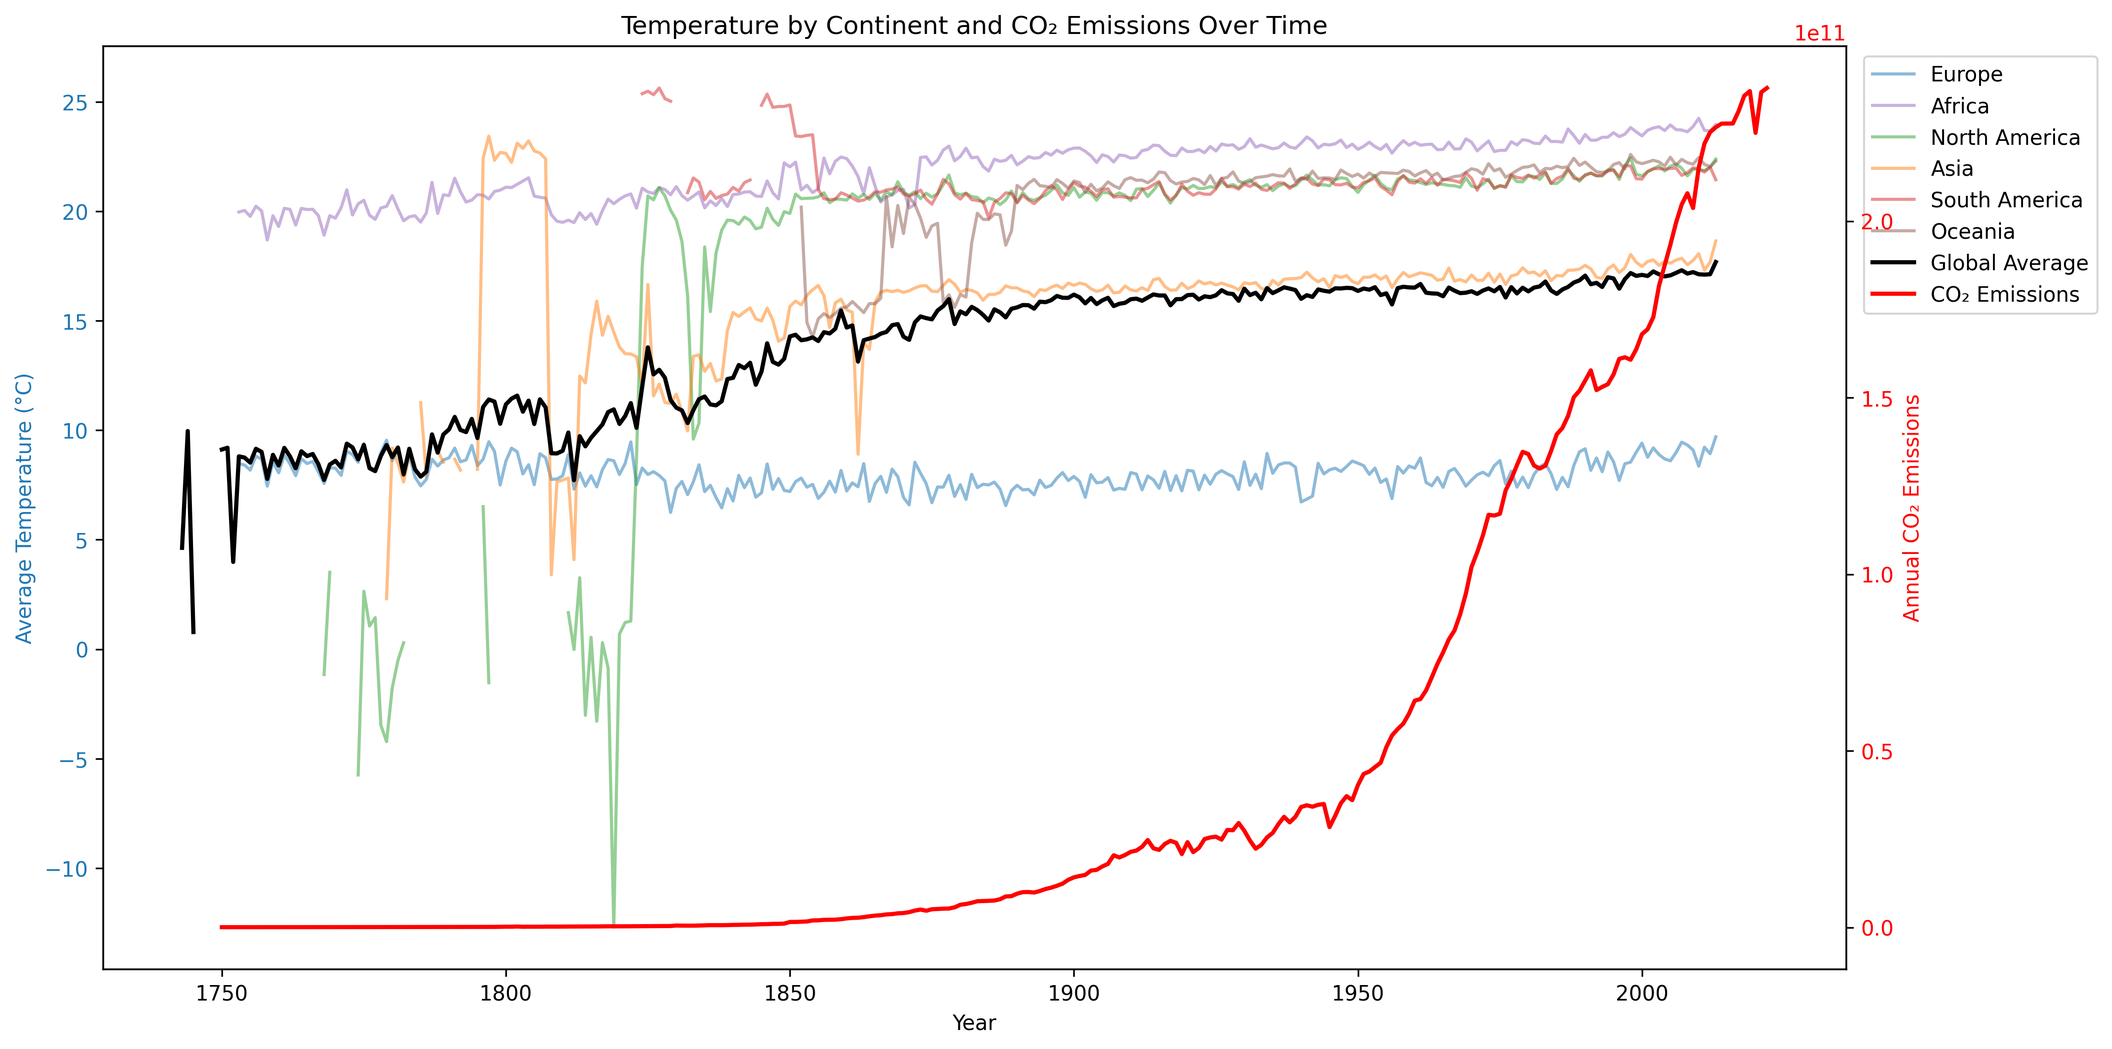
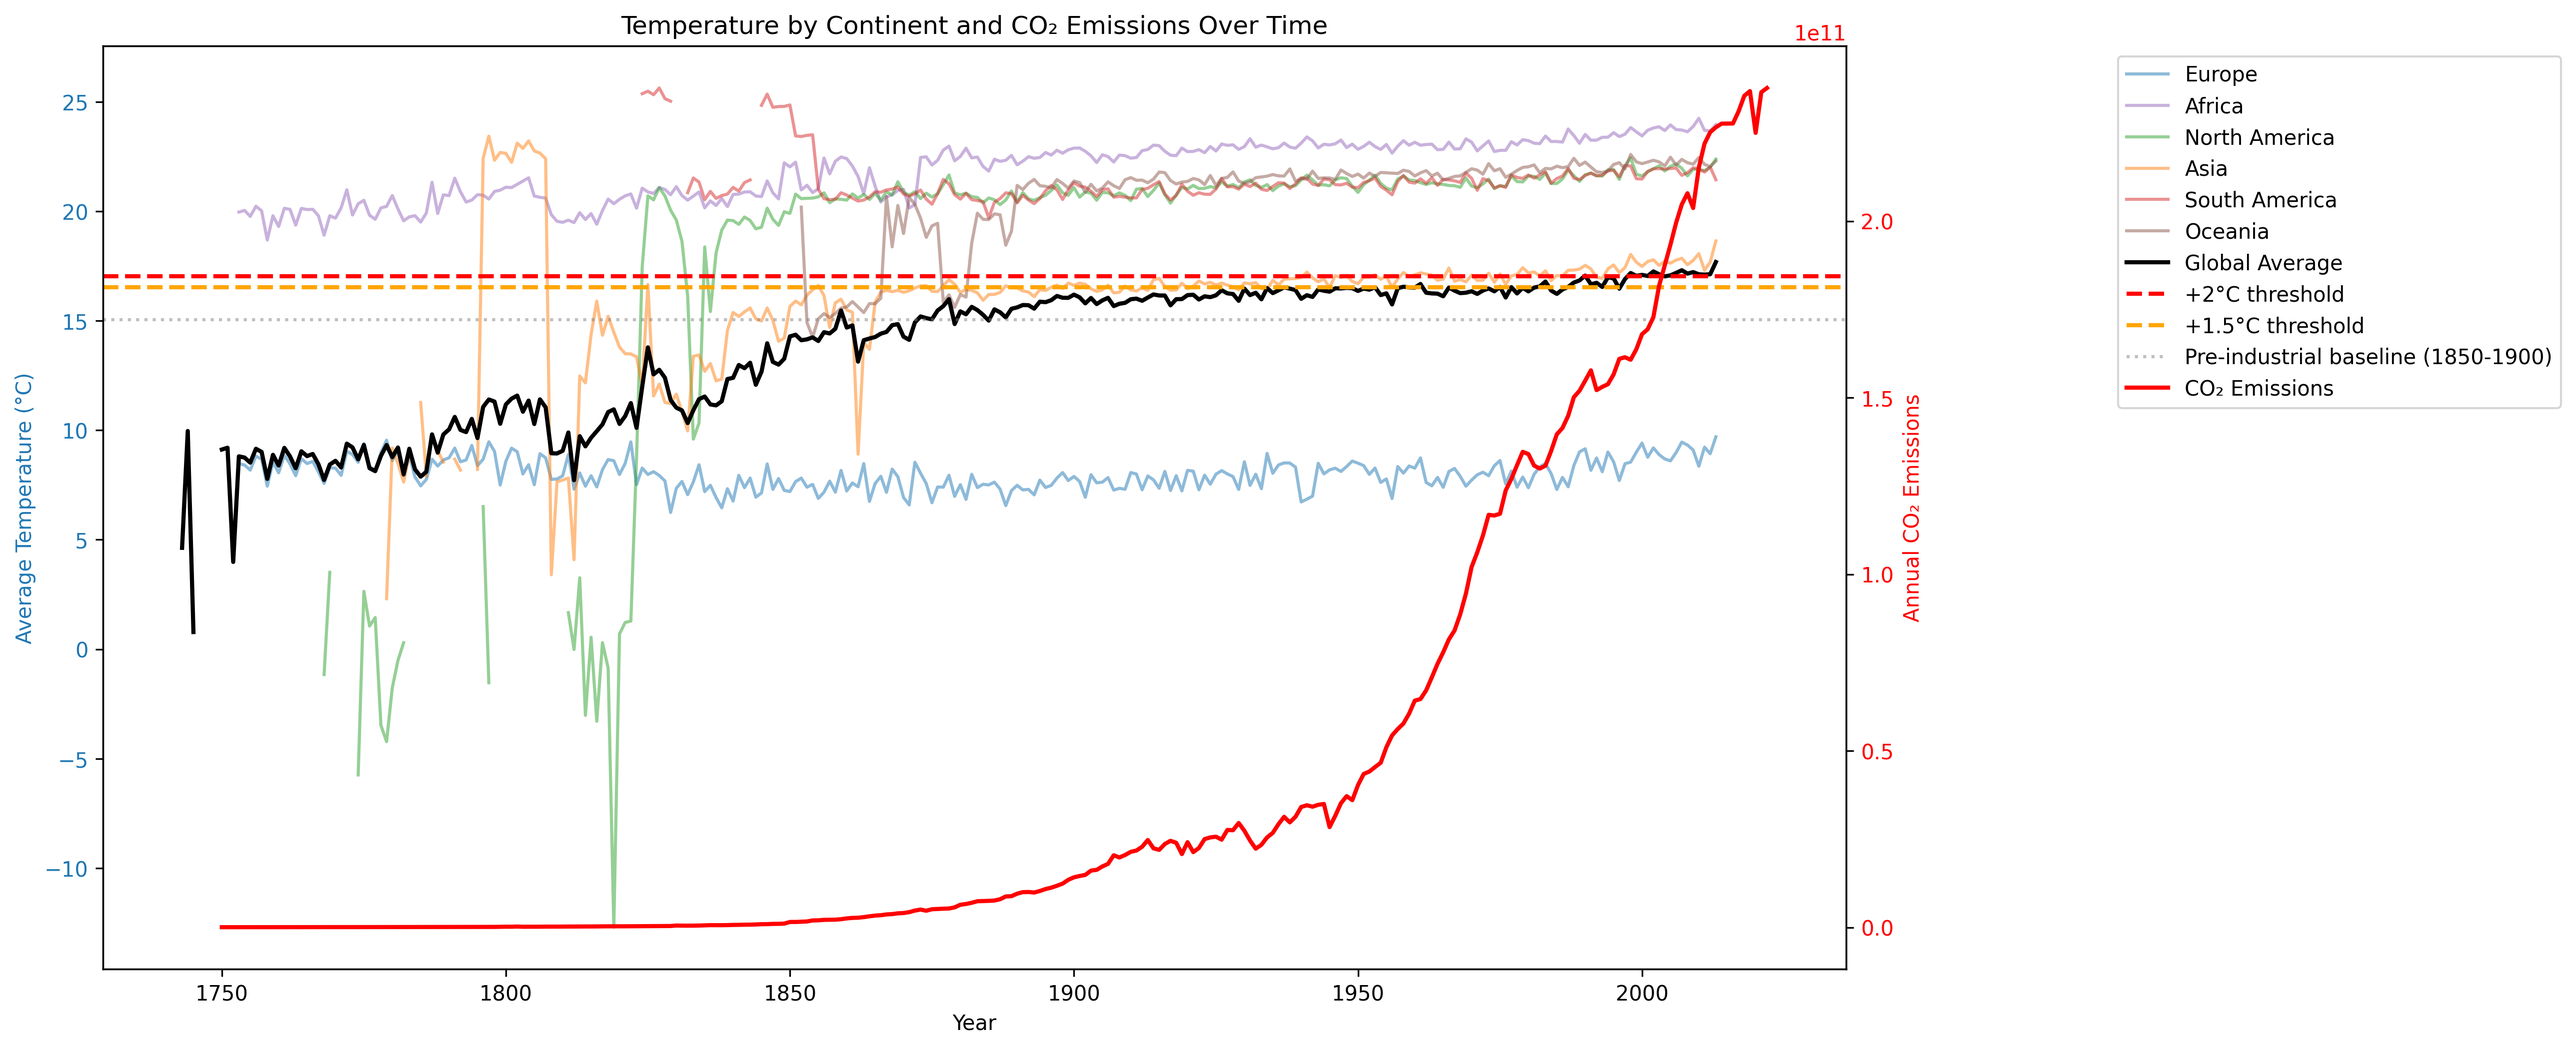
Added prediction

diff --git a/tempCO2.py b/tempCO2.py
@@ -110,6 +110,17 @@ def create_temperature_plot(yearly_temp):
         'Global Average': '#000000'
     }
     
+    # Get baseline temperature (1850-1900 average)
+    global_data = yearly_temp[yearly_temp['Continent'] == 'Global Average']
+    baseline_temp = global_data[
+        (global_data['Year'] >= 1850) & 
+        (global_data['Year'] <= 1900)
+    ]['AverageTemperature'].mean()
+    
+    # Calculate threshold temperatures
+    two_degree_line = baseline_temp + 2
+    one_five_degree_line = baseline_temp + 1.5
+    
     # Plot each continent
     for continent in yearly_temp['Continent'].unique():
         if continent != 'Global Average':
@@ -121,6 +132,14 @@ def create_temperature_plot(yearly_temp):
     global_data = yearly_temp[yearly_temp['Continent'] == 'Global Average']
     plt.plot(global_data['Year'], global_data['AverageTemperature'],
             label='Global Average', color='black', linewidth=2)
+    
+    # Add threshold lines
+    plt.axhline(y=two_degree_line, color='red', linestyle='--', 
+                label='+2°C threshold', linewidth=2)
+    plt.axhline(y=one_five_degree_line, color='orange', linestyle='--', 
+                label='+1.5°C threshold', linewidth=2)
+    plt.axhline(y=baseline_temp, color='gray', linestyle=':', 
+                label='Pre-industrial baseline (1850-1900)', alpha=0.5)
     
     plt.title('Average Temperature by Continent Over Time')
     plt.xlabel('Year')
@@ -157,6 +176,17 @@ def create_combined_plot(yearly_temp, yearly_emissions):
         'Global Average': '#000000'
     }
     
+    # Get baseline temperature (1850-1900 average)
+    global_data = yearly_temp[yearly_temp['Continent'] == 'Global Average']
+    baseline_temp = global_data[
+        (global_data['Year'] >= 1850) & 
+        (global_data['Year'] <= 1900)
+    ]['AverageTemperature'].mean()
+    
+    # Calculate threshold temperatures
+    two_degree_line = baseline_temp + 2
+    one_five_degree_line = baseline_temp + 1.5
+    
     # Temperature lines on primary y-axis
     for continent in yearly_temp['Continent'].unique():
         continent_data = yearly_temp[yearly_temp['Continent'] == continent]
@@ -166,6 +196,14 @@ def create_combined_plot(yearly_temp, yearly_emissions):
         else:
             ax1.plot(continent_data['Year'], continent_data['AverageTemperature'],
                     label=continent, color=colors[continent], alpha=0.5)
+    
+    # Add threshold lines
+    ax1.axhline(y=two_degree_line, color='red', linestyle='--', 
+                label='+2°C threshold', linewidth=2)
+    ax1.axhline(y=one_five_degree_line, color='orange', linestyle='--', 
+                label='+1.5°C threshold', linewidth=2)
+    ax1.axhline(y=baseline_temp, color='gray', linestyle=':', 
+                label='Pre-industrial baseline (1850-1900)', alpha=0.5)
     
     ax1.set_xlabel('Year')
     ax1.set_ylabel('Average Temperature (°C)', color='tab:blue')
@@ -179,6 +217,112 @@ def create_combined_plot(yearly_temp, yearly_emissions):
     ax2.tick_params(axis='y', labelcolor='red')
     
     plt.title('Temperature by Continent and CO₂ Emissions Over Time')
+    
+    # Combine legends
+    lines1, labels1 = ax1.get_legend_handles_labels()
+    lines2, labels2 = ax2.get_legend_handles_labels()
+    ax1.legend(lines1 + lines2, labels1 + labels2, bbox_to_anchor=(1.15, 1))
+    
+    return plt
+
+def create_future_projections_plot(yearly_temp, yearly_emissions):
+    fig, ax1 = plt.subplots(figsize=(15, 8))
+    
+    # Colors and baseline definitions remain the same
+    colors = {
+        'Europe': '#1f77b4',
+        'Asia': '#ff7f0e',
+        'North America': '#2ca02c',
+        'South America': '#d62728',
+        'Africa': '#9467bd',
+        'Oceania': '#8c564b',
+        'Global Average': '#000000'
+    }
+    
+    # Get baseline temperature (1850-1900 average)
+    global_data = yearly_temp[yearly_temp['Continent'] == 'Global Average']
+    baseline_temp = global_data[
+        (global_data['Year'] >= 1850) & 
+        (global_data['Year'] <= 1900)
+    ]['AverageTemperature'].mean()
+    
+    # Calculate 2-degree and 1.5-degree rise lines
+    two_degree_line = baseline_temp + 2
+    one_five_degree_line = baseline_temp + 1.5
+    
+    # Get last years from data and set projection periods
+    last_temp_year = global_data['Year'].max()  # 2013
+    last_emissions_year = yearly_emissions['Year'].max()  # 2022
+    projection_end = 2100
+    
+    # Create separate projection years for temp and emissions
+    temp_projection_years = list(range(last_temp_year, projection_end + 1))
+    emissions_projection_years = list(range(last_emissions_year, projection_end + 1))
+    
+    # Get the most recent values
+    recent_global_temp = global_data[global_data['Year'] == last_temp_year]['AverageTemperature'].iloc[0]
+    recent_emissions = yearly_emissions[yearly_emissions['Year'] == last_emissions_year]['Annual CO₂ emissions'].iloc[0]
+    
+    # Calculate historical rates of change
+    last_30_years = global_data[global_data['Year'] >= last_temp_year - 30]
+    temp_change_rate = (last_30_years['AverageTemperature'].iloc[-1] - 
+                       last_30_years['AverageTemperature'].iloc[0]) / 30
+    
+    # Adjust rates for projections
+    temp_increase_rate = temp_change_rate * 0.85
+    emission_increase_rate = recent_emissions * 0.005
+    
+    # Create projection data
+    projected_temps = [recent_global_temp + temp_increase_rate * (year - last_temp_year) 
+                      for year in temp_projection_years]
+    projected_emissions = [recent_emissions + emission_increase_rate * (year - last_emissions_year) 
+                         for year in emissions_projection_years]
+    
+    # Plot historical temperature data
+    for continent in yearly_temp['Continent'].unique():
+        continent_data = yearly_temp[yearly_temp['Continent'] == continent]
+        if continent == 'Global Average':
+            ax1.plot(continent_data['Year'], continent_data['AverageTemperature'],
+                    label='Historical Global Average', color=colors[continent], linewidth=2)
+        else:
+            ax1.plot(continent_data['Year'], continent_data['AverageTemperature'],
+                    label=f'Historical {continent}', color=colors[continent], alpha=0.5)
+    
+    # Plot projected global temperature
+    ax1.plot(temp_projection_years, projected_temps, '--', color='black', 
+             label=f'Projected Global Average (from {last_temp_year})', linewidth=2)
+    
+    # Add temperature threshold lines
+    ax1.axhline(y=two_degree_line, color='red', linestyle='--', 
+                label='+2°C threshold', linewidth=2)
+    ax1.axhline(y=one_five_degree_line, color='orange', linestyle='--', 
+                label='+1.5°C threshold', linewidth=2)
+    ax1.axhline(y=baseline_temp, color='gray', linestyle=':', 
+                label='Pre-industrial baseline (1850-1900)', alpha=0.5)
+    
+    ax1.set_xlabel('Year')
+    ax1.set_ylabel('Average Temperature (°C)', color='tab:blue')
+    ax1.tick_params(axis='y', labelcolor='tab:blue')
+    
+    # Emissions on secondary y-axis
+    ax2 = ax1.twinx()
+    # Historical emissions
+    ax2.plot(yearly_emissions['Year'], yearly_emissions['Annual CO₂ emissions'],
+            color='red', linewidth=2, label='Historical CO₂ Emissions')
+    # Projected emissions
+    ax2.plot(emissions_projection_years, projected_emissions, '--', color='red', 
+             label=f'Projected CO₂ Emissions (from {last_emissions_year})', linewidth=2)
+    
+    ax2.set_ylabel('Annual CO₂ Emissions', color='red')
+    ax2.tick_params(axis='y', labelcolor='red')
+    
+    plt.title(f'Historical Data and Future Projections\nTemperature (from {last_temp_year}) and CO₂ Emissions (from {last_emissions_year})')
+    
+    # Add vertical lines for last data years
+    plt.axvline(x=last_temp_year, color='blue', linestyle='--', alpha=0.5, 
+                label='Last Temperature Data')
+    plt.axvline(x=last_emissions_year, color='red', linestyle='--', alpha=0.5, 
+                label='Last Emissions Data')
     
     # Combine legends
     lines1, labels1 = ax1.get_legend_handles_labels()
@@ -221,6 +365,12 @@ def main():
     combined_plot = create_combined_plot(yearly_temp, yearly_emissions)
     combined_plot.savefig('./charts/temperature_and_emissions_by_continent.png', bbox_inches='tight', dpi=300)
     combined_plot.close()
+
+    # Add new plot for future projections
+    print("Creating future projections plot...")
+    projections_plot = create_future_projections_plot(yearly_temp, yearly_emissions)
+    projections_plot.savefig('./charts/future_projections.png', bbox_inches='tight', dpi=300)
+    projections_plot.close()
     
     print("Analysis complete! Check the generated PNG files in charts directory.")
 
